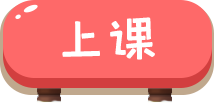
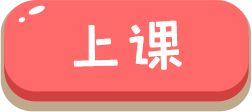
bugfix

diff --git a/dev/less/mainpage.less b/dev/less/mainpage.less
@@ -183,15 +183,19 @@
                                 justify-content: flex-end;
                                 margin-top: 0.14rem;
                                 position: relative;
+                                align-items: center;
                                 img{
                                     width: 100%;
                                 }
-                                .light{
-                                    width: 100%;
-                                    height: 0.65rem;
-                                    top:0;
-                                    background-color: red;
-                                    border-radius: 0.24rem;
+                                display: flex;
+                                .start{
+                                    height: 0.72rem;
+                                    margin-bottom: 0.04rem;
+                                    z-index: 1;
+                                }
+                                .foot{
+                                    width: 1rem;
+                                    height: 0.14rem;
                                     position: absolute;
                                 }
                             }

diff --git a/dev/scripts/containers/main.student.page.js b/dev/scripts/containers/main.student.page.js
@@ -457,11 +457,12 @@ class Main extends React.Component {
 									
                                     <div className="btns-panel">
 										{room.can_enter && room.class_state == 'normal' ?<div className="start-imgbtn">
-											<div className="light"></div>
-											<img src={require('../../assets/attend-class.png')} onClick={()=>{
+											<img className='start' src={require('../../assets/attend-class.png')} onClick={()=>{
+
 											this.__stop_relax(room)
 											this.onStartRoom(room)
 										}} alt=""/>
+											<img className='foot' src={require('../../assets/foot.png')} alt=""/>
 										</div>:""}
 										
 										{room.preview_status == "on" && room.prepare_name && !room.follow ? <div className="preview-imgbtn"><img src={require('../../assets/preview-btn.png')} onClick={()=>{
